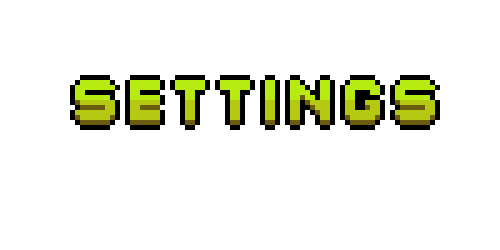
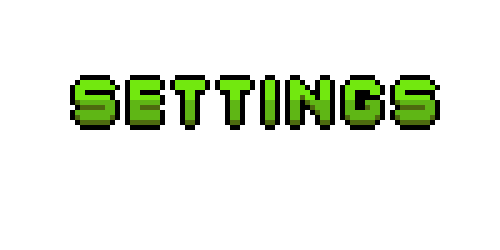
Buttons Fixed

Changed region(s): [[0.15, 0.308, 0.66, 0.504], [0.69, 0.308, 0.87, 0.504]]

diff --git a/Menu.py b/Menu.py
@@ -14,8 +14,11 @@ pg.display.set_caption("Life of Mark episode 1 - The List")
 icon = pg.image.load("icon.png")
 pg.display.set_icon(icon)
 startButton = pg.image.load("startButton.png")
+startButton1 = pg.image.load("startButton1.png")
 settingButton = pg.image.load("settingButton.png")
+settingButton1 = pg.image.load("settingButton1.png")
 quitButton = pg.image.load("quitButton.png")
+quitButton1 = pg.image.load("quitButton1.png")
 closedScroll = pg.image.load("closedScroll.png")
 openScrolls = [pg.image.load("openScrollCpp.png"), pg.image.load("openScrollCsharp.png"), pg.image.load("openScrollCss.png"), pg.image.load("openScrollHTML.png"), pg.image.load("openScrollJs.png"), pg.image.load("openScrollPython.png")]
 
@@ -99,12 +102,16 @@ def drawWorld():
         if mx > 850 and mx < 1070 and my > 520 and my < 560:
             scrolls.drawMouseOverStart()
             win.blit(icon, (783, 480))
+            win.blit(startButton1, (720, 440))
+            
 
         if mx > 785 and mx < 1150 and my > 720 and my < 765:
             scrolls.drawMouseOverSetting()
+            win.blit(settingButton1, (710, 640))
 
         if mx > 880 and mx < 1035 and my > 930 and my < 965:
             scrolls.drawMouseOverQuit()
+            win.blit(quitButton1, (700, 840))
 
 
 def startSettings():
